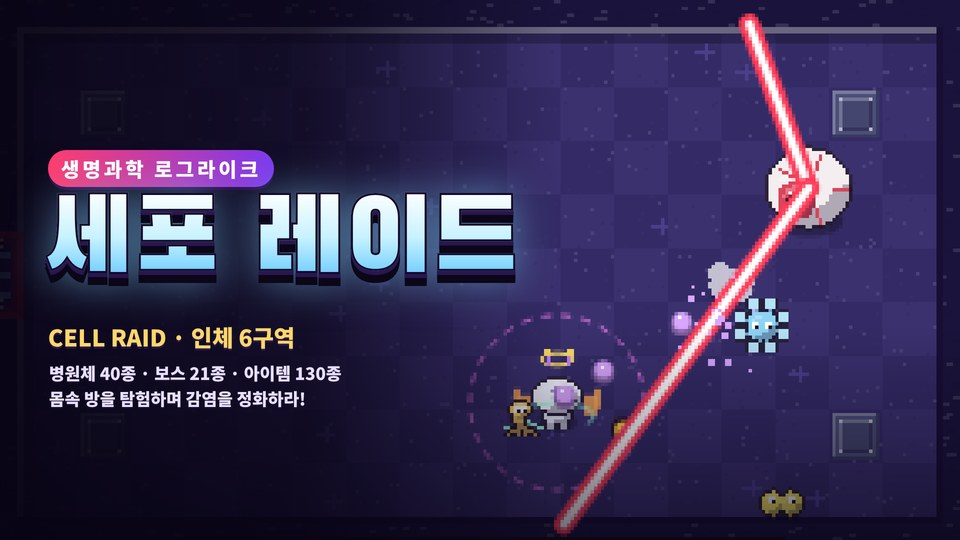
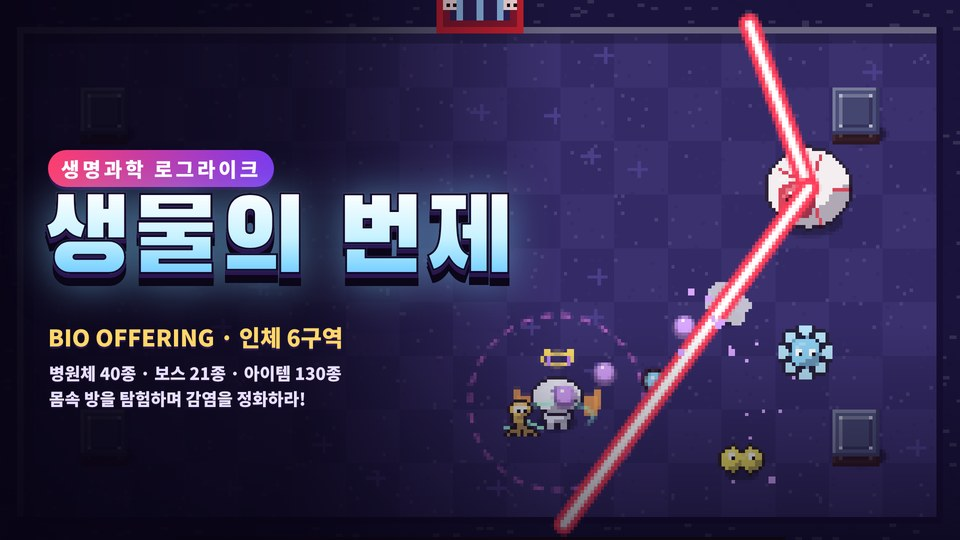
생물의 번제(구 세포 레이드): 이름 변경, 돌진 0.7배, 부서지는 장애물, 효소 결정
- 이름: 생물의 번제 (BIO OFFERING) — 게임 화면·허브·README·썸네일 (저장·랭킹은 그대로 이어짐)
- 돌진하는 병원체와 보스 돌진 패턴 속도 0.7배
- 눈물로 부서지는 장애물: 노폐물 덩어리(3번), 염증 불씨(닿으면 데임·3번 맞으면 꺼짐), 고름 주머니(터지며 연쇄 폭발)
  · 확률적으로 코인·폭탄·하트가 떨어짐, 폭발·초음파 파쇄기로도 부서짐
- 효소 결정: 폭탄으로만 깨지는 청록·보라 빛 구조물, 깨면 아이템 또는 물건 여러 개
- 가까이 가면 장애물 이름표(조심할 점) 표시

Claude-Session: https://claude.ai/code/session_01UFhV39Q5HiHHCjx3qBq9Aw

diff --git a/games/cell-raid/game.js b/games/cell-raid/game.js
@@ -1,4 +1,4 @@
-// 세포 레이드 — 게임 본체: 플레이어 · 탄도 · 병원체 AI · 보스 패턴 · 아이템 효과 · 방 진행 · 그리기
+// 생물의 번제 — 게임 본체: 플레이어 · 탄도 · 병원체 AI · 보스 패턴 · 아이템 효과 · 방 진행 · 그리기
 (function () {
   'use strict';
   const CR = window.CR, AU = CR.audio, IN = CR.input;
@@ -18,7 +18,7 @@
   function solid(tx, ty, mode) {
     const v = CR.tileAt(G.room, tx, ty);
     if (v === 1) { if ((mode === 'player' || mode === 'pfly') && tx >= 0 && ty >= 0 && tx < COLS && ty < ROWS) { const d = doorAt(tx, ty); if (d && doorOpen(G.room, d)) return false; } return true; }
-    if (v === 2 || v === 3) return !(mode === 'fly' || mode === 'ghost' || mode === 'spectral' || mode === 'pfly');
+    if (v === 2 || v === 3 || v === 5 || v === 6 || v === 8 || v === 9) return !(mode === 'fly' || mode === 'ghost' || mode === 'spectral' || mode === 'pfly');
     return false;
   }
   function blocked(x, y, r, mode) {
@@ -295,7 +295,7 @@
         if (e.state === 'dash') { const h = moveEnt(e, e.vx * dt, e.vy * dt, mode); if (h || e.st <= 0) { e.state = 'rest'; e.st = 0.7; } e.st -= dt; }
         else if (e.state === 'rest') { e.st -= dt; if (e.st <= 0) e.state = 'idle'; }
         else { e.dir += rand(-1, 1) * dt; if (moveEnt(e, Math.cos(e.dir) * sp * 0.5 * dt, Math.sin(e.dir) * sp * 0.5 * dt, mode)) e.dir += 2;
-          const ax = Math.abs(P.x - e.x) < 10, ay = Math.abs(P.y - e.y) < 10, f = (d.fast ? 260 : 190) * slow;
+          const ax = Math.abs(P.x - e.x) < 10, ay = Math.abs(P.y - e.y) < 10, f = (d.fast ? 182 : 133) * slow;
           if ((ax || ay || dd < 50) && e.t > 0.8) { e.state = 'dash'; e.st = 1.4; if (dd < 50) { e.vx = Math.cos(a) * f; e.vy = Math.sin(a) * f; } else if (ax) { e.vx = 0; e.vy = Math.sign(P.y - e.y) * f; } else { e.vy = 0; e.vx = Math.sign(P.x - e.x) * f; } } }
         break; }
       case 'burrow': {
@@ -398,7 +398,7 @@
     aim: { u(b) { const n = +b.c.a[0] || 3, k = Math.floor(b.c.t / 0.35); if (k > b.c.k) { b.c.k = k; const A = ang(b, G.P); for (let i = 0; i < n; i++) eShot(b.x, b.y, A + (i - (n - 1) / 2) * 0.2, 95); AU.sfx('eshot'); } return b.c.t > 1.1; } },
     ring: { u(b) { const n = +b.c.a[0] || 10, k = Math.floor(b.c.t / 0.5); if (k > b.c.k && k < 3) { b.c.k = k; ring(b.x, b.y, n, 78, k * Math.PI / n); if (b.def.segs) b.trail.forEach((p, i) => { if (i % 16 === 8) { eShot(p.x, p.y, ang(p, G.P), 80); } }); } return b.c.t > 1.2; } },
     spiral: { u(b) { b.c.e = (b.c.e || 0) + 1; const arms = b.phase ? 3 : 2; if (b.c.e % 5 === 0) for (let i = 0; i < arms; i++) eShot(b.x, b.y, b.c.t * 2.6 + i * TAU / arms, 85, { col: '#ff8ad0' }); if (b.c.e % 15 === 0) AU.sfx('eshot'); return b.c.t > 2.6; } },
-    charge: { s(b) { b.c.n = b.phase ? 2 : 1; b.c.w = 0.5; }, u(b, dt) { if (b.c.w > 0) { b.c.w -= dt; b.flash = 0.05; if (b.c.w <= 0) { const A = ang(b, G.P); b.c.vx = Math.cos(A) * 230; b.c.vy = Math.sin(A) * 230; } return false; } const h = moveEnt(b, b.c.vx * dt, b.c.vy * dt, 'walk'); if (h) { ring(b.x, b.y, 8, 70); G.shake = 5; AU.sfx('boom'); b.c.n--; if (b.c.n <= 0) return true; b.c.w = 0.4; } return b.c.t > 4; } },
+    charge: { s(b) { b.c.n = b.phase ? 2 : 1; b.c.w = 0.5; }, u(b, dt) { if (b.c.w > 0) { b.c.w -= dt; b.flash = 0.05; if (b.c.w <= 0) { const A = ang(b, G.P); b.c.vx = Math.cos(A) * 161; b.c.vy = Math.sin(A) * 161; } return false; } const h = moveEnt(b, b.c.vx * dt, b.c.vy * dt, 'walk'); if (h) { ring(b.x, b.y, 8, 70); G.shake = 5; AU.sfx('boom'); b.c.n--; if (b.c.n <= 0) return true; b.c.w = 0.4; } return b.c.t > 4; } },
     summon: { s(b) { const id = b.c.a[0], n = +b.c.a[1] || 1, alive = G.room.ents.filter(e => !e.boss && !e.dead && !e.ally).length; for (let i = 0; i < n && alive + i < 7; i++) { const e = mkEnemy(CR.ALL[id], b.x + rand(-20, 20), b.y + rand(-14, 20)); G.room.ents.push(e); burstFx(e.x, e.y, e.def.col, 8); } }, u(b) { return b.c.t > 0.6; } },
     teleport: { u(b) { const t = b.c.t; if (t < 0.4) { b.fade = 1 - t / 0.4; return false; } if (!b.c.m) { b.c.m = 1; const p = freeSpot(80); b.x = p.x; b.y = p.y; } if (t < 0.7) { b.fade = (t - 0.4) / 0.3; return false; } b.fade = 1; if (!b.c.s) { b.c.s = 1; const A = ang(b, G.P); for (let i = -1; i <= 1; i++) eShot(b.x, b.y, A + i * 0.25, 100); AU.sfx('eshot'); } return t > 0.9; } },
     laser8: { s(b) { const n = b.phase || b.def.phases3 ? 8 : 4, off = ang(b, G.P); for (let i = 0; i < n; i++) laser(b.x, b.y, off + i * TAU / n, { follow: b, w: 6 }); AU.sfx('charge'); }, u(b) { return b.c.t > 1.6; } },
@@ -494,6 +494,7 @@
       const nx = b.x + b.vx * dt + ox, ny = b.y + b.vy * dt + oy, step = Math.hypot(b.vx * dt, b.vy * dt);
       const tx = Math.floor(nx / T), ty = Math.floor(ny / T), tile = CR.tileAt(G.room, tx, ty);
       const spectral = has('spectral') || has('wave');
+      if (CR.isBreak(tile) && !spectral) { CR.hitProp(G.room, tx, ty, b.dmg, false); bulletEnd(b, i); continue; }
       if (tile === 1 || ((tile === 2 || tile === 3) && !spectral)) {
         if ((tile === 2) && toolFx('rockBreak')) { G.room.tiles[ty * COLS + tx] = 0; G.room.bgDirty = true; burstFx(tx * T + 8, ty * T + 8, CR.STAGES[G.stage - 1].rock, 10); AU.sfx('hit'); maybeRockDrop(tx, ty); }
         if (b.bounce > 0 && tile !== 2) { b.bounce--; if (CR.tileAt(G.room, Math.floor(nx / T), Math.floor(b.y / T)) !== 0) b.vx = -b.vx; else b.vy = -b.vy; continue; }
@@ -567,7 +568,7 @@
         if (b.homing && b.t < b.homing) { const want = ang(b, P), cur = Math.atan2(b.vy, b.vx); let dA = ((want - cur + Math.PI * 3) % TAU) - Math.PI; const na = cur + clamp(dA, -2.2 * dt, 2.2 * dt), sp = Math.hypot(b.vx, b.vy); b.vx = Math.cos(na) * sp; b.vy = Math.sin(na) * sp; }
         const m = G.slowAll > 0 ? 0.4 : 1; b.x += b.vx * dt * m; b.y += b.vy * dt * m;
         const tile = CR.tileAt(G.room, Math.floor(b.x / T), Math.floor(b.y / T));
-        if (tile === 1 || tile === 2 || tile === 3 || b.t > b.life) { if (b.web) creep(b.x, b.y, 10, 5, 'web'); G.eb.splice(i, 1); G.fx.push({ x: b.x, y: b.y, vx: 0, vy: 0, t: 0, life: 0.15, col: b.col, s: 2, pop: 1 }); continue; }
+        if (tile === 1 || tile === 2 || tile === 3 || CR.isBreak(tile) || b.t > b.life) { if (b.web) creep(b.x, b.y, 10, 5, 'web'); G.eb.splice(i, 1); G.fx.push({ x: b.x, y: b.y, vx: 0, vy: 0, t: 0, life: 0.15, col: b.col, s: 2, pop: 1 }); continue; }
       }
       // 수호 동료가 막아 줌
       let blockedByFam = false; for (const f of G.fams) if ((f.kind === 'guard') && Math.hypot(f.x - b.x, f.y - b.y) < 8) { blockedByFam = true; break; }
@@ -613,7 +614,9 @@
     const t0x = Math.floor((x - R) / T), t1x = Math.floor((x + R) / T), t0y = Math.floor((y - R) / T), t1y = Math.floor((y + R) / T);
     for (let ty = t0y; ty <= t1y; ty++) for (let tx = t0x; tx <= t1x; tx++) {
       if (Math.hypot(tx * T + 8 - x, ty * T + 8 - y) > R + 6) continue;
-      if (CR.tileAt(G.room, tx, ty) === 2) { G.room.tiles[ty * COLS + tx] = 0; G.room.bgDirty = true; burstFx(tx * T + 8, ty * T + 8, CR.STAGES[G.stage - 1].rock, 8); maybeRockDrop(tx, ty); }
+      const tv = CR.tileAt(G.room, tx, ty);
+      if (tv === 2) { G.room.tiles[ty * COLS + tx] = 0; G.room.bgDirty = true; burstFx(tx * T + 8, ty * T + 8, CR.STAGES[G.stage - 1].rock, 8); maybeRockDrop(tx, ty); }
+      else if (CR.isBreak(tv)) CR.hitProp(G.room, tx, ty, 999, true);
     }
     for (const d in G.room.doors) { const dr = G.room.doors[d]; if (dr.hidden) { const [tx, ty] = CR.DOOR_TILE[d]; if (Math.hypot(tx * T + 8 - x, ty * T + 8 - y) < R + 14) revealSecret(G.room, d); } }
   }
@@ -698,7 +701,7 @@
     A06() { dupPickups(); },
     A07() { let n = 0; G.room.items.forEach(p => { if (!p.taken && p.id && !p.pk) { const k = CR.ALL[p.id].kind; p.id = k === 'active' ? (takeFrom('active') || p.id) : rollItem(G.room.type === 'lab' ? 'lab' : 'treasure'); n++; burstFx(p.x, p.y, '#d68cff', 12); } }); if (!n) toast('바꿀 아이템이 없어요', '받침대 위 아이템이 있는 방에서 쓰세요', '#ff9e9e'); AU.sfx('power'); },
     A08() { G.creeps = G.creeps.filter(c => !['acid', 'cloud', 'web'].includes(c.kind)); heal(2); AU.sfx('heal'); },
-    A09() { for (let i = 0; i < G.room.tiles.length; i++) if (G.room.tiles[i] === 2) G.room.tiles[i] = 0; G.room.bgDirty = true; for (const d in G.room.doors) revealSecret(G.room, d); G.shake = 6; AU.sfx('boom'); },
+    A09() { for (let i = 0; i < G.room.tiles.length; i++) { if (G.room.tiles[i] === 2) G.room.tiles[i] = 0; else if (CR.isBreak(G.room.tiles[i])) CR.hitProp(G.room, i % COLS, Math.floor(i / COLS), 999, true); } G.room.bgDirty = true; for (const d in G.room.doors) revealSecret(G.room, d); G.shake = 6; AU.sfx('boom'); },
     A10() { G.P.room.vaccine = 5; AU.sfx('shield'); },
     A11() { for (let i = 0; i < 4; i++) G.room.ents.push(mkEnemy(CR.MINIS.ally, G.P.x + rand(-12, 12), G.P.y + rand(-12, 12), { ally: 1, life: 14 })); AU.sfx('power'); },
     A12() { revealMap(); for (const r of G.floor.rooms.values()) if (r.type === 'secret') r.revealed = true; G.room.weak = 1; AU.sfx('power'); },
@@ -790,6 +793,7 @@
     const P = G.P; let best = null, bd = 1e9;
     for (const it of G.room.items) { if (it.taken) continue; const d = Math.hypot(P.x - it.x, P.y - it.y); if (d < 38 && d < bd) { bd = d; best = { x: it.x, y: it.y - 14, id: it.id, pk: it.pk, price: it.price, hpCost: it.hpCost }; } }
     for (const p of G.room.pickups) { if (!['tool', 'chart', 'hormone'].includes(p.kind)) continue; const d = Math.hypot(P.x - p.x, P.y - p.y); if (d < 30 && d < bd) { bd = d; best = { x: p.x, y: p.y - 10, id: p.id, floor: 1 }; } }
+    if (!best) best = CR.propPeek(G.room, P);
     return best;
   }
   function collect(p) {
@@ -836,6 +840,7 @@
     if (has('giant')) { const tx = Math.floor((P.x + Math.sign(P.vx) * (P.r + 2)) / T), ty = Math.floor(P.y / T); if (CR.tileAt(G.room, tx, ty) === 2 && Math.abs(P.vx) > 20) { G.room.tiles[ty * COLS + tx] = 0; G.room.bgDirty = true; burstFx(tx * T + 8, ty * T + 8, CR.STAGES[G.stage - 1].rock, 8); AU.sfx('hit'); } }
     if (Math.hypot(P.vx, P.vy) > 15) { P.walkT += dt; if (Math.abs(P.vx) > Math.abs(P.vy)) P.dir = P.vx > 0 ? 'right' : 'left'; else P.dir = P.vy > 0 ? 'down' : 'up';
       if (has('trailCreep')) { P.trT = (P.trT || 0) - dt; if (P.trT <= 0) { P.trT = 0.25; creep(P.x, P.y + 3, 7, 2.2, 'pacid', { col: '#e6ff8a' }); } } }
+    if (!has('flight') && !has('creepImmune') && CR.fireTouch(G.room, P)) hurtPlayer(1, 'fire');
     // 가시
     if (!has('flight') && !has('creepImmune') && CR.tileAt(G.room, Math.floor(P.x / T), Math.floor(P.y / T)) === 4) hurtPlayer(1, 'spike');
     // 문 통과
@@ -949,6 +954,7 @@
     c.drawImage(CR.roomBg(G.room, st), ox, oy);
     c.save(); c.translate(ox, oy);
     for (const d in G.room.doors) CR.drawDoor(c, G.room, d, st, G.room.cleared, t);
+    CR.drawProps(c, G.room, st, t);
     // 장판
     for (const k of G.creeps) {
       const fade = Math.min(1, (k.life - k.t) / 0.6) * (k.delay && k.t < k.delay ? 0.35 : 1);

diff --git a/games/cell-raid/props.js b/games/cell-raid/props.js
@@ -1,0 +1,125 @@
+// 생물의 번제 — 부서지는 장애물: 노폐물 덩어리 · 염증 불씨 · 고름 주머니 · 효소 결정(폭탄 전용)
+(function () {
+  'use strict';
+  const CR = window.CR, T = CR.T, COLS = CR.COLS, ROWS = CR.ROWS, sh = CR.shade;
+  // 타일 번호: 5 노폐물 덩어리 · 6 염증 불씨 · 8 고름 주머니 · 9 효소 결정
+  const DEF = {
+    5: { name: '노폐물 덩어리', hp: 3, desc: '눈물로 3번 맞히면 부서져요. 가끔 코인·폭탄·하트가 나와요' },
+    6: { name: '염증 불씨', hp: 3, desc: '닿으면 데요! 눈물로 3번 맞히면 꺼지고, 가끔 코인·하트가 나와요' },
+    8: { name: '고름 주머니', hp: 2, desc: '맞히면 터져요 — 주변을 폭발시키니 떨어져서 쏘세요' },
+    9: { name: '효소 결정', hp: 1, bombOnly: true, desc: '폭탄으로만 깨져요. 깨면 아이템이나 물건 여러 개가 나와요' },
+  };
+  CR.PROPS = DEF;
+  CR.isBreak = v => v === 5 || v === 6 || v === 8 || v === 9;
+
+  /* ───────── 배치: 일반 방에 확률적으로 (가운데 십자 통로·문 앞은 비움) ───────── */
+  CR.placeProps = function (room, stage, rnd) {
+    if (room.type !== 'normal') return;
+    const t = room.tiles, free = [];
+    for (let y = 2; y <= ROWS - 3; y++) for (let x = 2; x <= COLS - 3; x++) { if (x === 9 || y === 5) continue; if (t[y * COLS + x] === 0) free.push([x, y]); }
+    const take = () => free.length ? free.splice(Math.floor(rnd() * free.length), 1)[0] : null;
+    const put = (v, n) => { for (let i = 0; i < n; i++) { const c = take(); if (c) t[c[1] * COLS + c[0]] = v; } };
+    if (rnd() < (stage === 3 ? 0.6 : 0.38)) put(5, 1 + Math.floor(rnd() * 3));
+    if (rnd() < 0.28) put(6, 1 + Math.floor(rnd() * 2));
+    if (stage >= 2 && rnd() < 0.3) put(8, 1 + Math.floor(rnd() * 2));
+    if (rnd() < 0.16) {   // 효소 결정: 바위 하나를 바꾸거나 빈칸에
+      const rocks = []; for (let i = 0; i < t.length; i++) if (t[i] === 2) rocks.push(i);
+      if (rocks.length && rnd() < 0.6) t[rocks[Math.floor(rnd() * rocks.length)]] = 9; else put(9, 1);
+    }
+    room.thp = {};
+  };
+
+  /* ───────── 그림 ───────── */
+  function poopSpr(stage, hp) {
+    const base = stage === 3 ? '#6e5a24' : '#7a4a26';
+    return CR.spr('poop' + stage + hp, 16, 16, g => {
+      const s = [0.55, 0.78, 1][hp - 1] || 1;
+      g.blob(8, 12, 6.5 * s, 3.2 * s, sh(base, -0.12));
+      if (hp >= 2) g.blob(8, 9.5, 5 * s, 2.8 * s, base);
+      if (hp >= 3) { g.blob(8.3, 7, 3.6, 2.4, sh(base, 0.08)); g.blob(8.8, 4.8, 1.8, 1.6, sh(base, 0.15)); }
+      g.set(6, hp >= 3 ? 6 : 9, sh(base, 0.5)); g.set(5, 11, sh(base, 0.35));
+      if (hp <= 2) { g.set(5, 12, '#5a3a1c'); g.set(11, 11, '#5a3a1c'); }
+    });
+  }
+  function logsSpr(stage, lit) {
+    return CR.spr('logs' + stage + (lit ? 1 : 0), 16, 16, g => {
+      if (!lit) { g.blob(8, 12, 6, 2.8, '#3a3232'); g.blob(7, 11, 3, 1.6, '#4e4444'); g.set(9, 11, '#ff7a3a'); return; }
+      g.line(2, 14, 13, 10, '#6b3a1e', 3); g.line(3, 10, 14, 14, '#7c4626', 3);
+      g.line(3, 13, 12, 10, '#8c5a32', 1); g.line(4, 10, 13, 13, '#9a6a3a', 1);
+      g.set(2, 14, '#c49a6c'); g.set(14, 14, '#c49a6c');
+    });
+  }
+  function sacSpr(stage, hp) {
+    return CR.spr('sac' + stage + hp, 16, 16, g => {
+      g.blob(8, 9, 6.2, 5.6, '#cfb44e'); g.blob(8, 8, 4.2, 3.6, '#e2cc6a');
+      for (const [a, b, c, d] of [[3, 9, 6, 6], [13, 8, 10, 5], [5, 13, 8, 10], [11, 13, 9, 10]]) g.line(a, b, c, d, '#a8742e');
+      g.set(6, 6, '#fff3b0'); g.set(7, 5, '#fff3b0');
+      if (hp < 2) { g.line(7, 4, 10, 9, '#6a3a12'); g.line(10, 9, 8, 12, '#6a3a12'); g.set(9, 10, '#f0e070'); }
+      g.rect(7, 2, 3, 2, '#a8742e', true);
+    });
+  }
+  function crystalSpr(stage) {
+    return CR.spr('xtal' + stage, 16, 16, g => {
+      const prism = (x, y, w, h, c) => { for (let j = 0; j < h; j++) { const ww = j < 2 ? j + 1 : w; for (let i = -ww; i <= ww; i++) g.set(x + i * 0.7, y + j, i < 0 ? sh(c, 0.35) : i === 0 ? sh(c, 0.6) : c); } };
+      g.blob(8, 13, 6.5, 2.4, '#2a1a4a');
+      prism(5, 4, 2, 9, '#7a5cff'); prism(11, 5, 2, 8, '#b07cff'); prism(8, 1, 3, 12, '#3ad8ff');
+      g.set(8, 2, '#ffffff'); g.set(7, 4, '#ffffff'); g.set(5, 5, '#e8dcff');
+    });
+  }
+
+  /* ───────── 그리기 (불꽃·반짝임은 매 프레임) ───────── */
+  CR.drawProps = function (c, room, st, t) {
+    const tl = room.tiles, thp = room.thp || (room.thp = {});
+    if (room.ash) for (const a of room.ash) { c.fillStyle = 'rgba(30,24,24,0.55)'; c.beginPath(); c.ellipse(a.x, a.y + 4, 7, 3, 0, 0, 7); c.fill(); c.drawImage(logsSpr(st, false), a.x - 8, a.y - 8); }
+    for (let y = 1; y < ROWS - 1; y++) for (let x = 1; x < COLS - 1; x++) {
+      const i = y * COLS + x, v = tl[i]; if (!CR.isBreak(v)) continue;
+      const px = x * T, py = y * T, hp = thp[i] != null ? thp[i] : DEF[v].hp;
+      c.fillStyle = 'rgba(15,5,8,0.45)'; c.beginPath(); c.ellipse(px + 8.5, py + 14, 7, 2.8, 0, 0, 7); c.fill();
+      if (v === 5) c.drawImage(poopSpr(st, hp), px, py);
+      else if (v === 8) { const s = 1 + Math.sin(t * 5 + x) * 0.04; c.save(); c.translate(px + 8, py + 9); c.scale(s, 1 / s); c.drawImage(sacSpr(st, hp), -8, -9); c.restore(); }
+      else if (v === 9) {
+        const g = 0.35 + Math.sin(t * 3 + x * 2) * 0.15; c.fillStyle = `rgba(90,220,255,${g * 0.5})`; c.beginPath(); c.arc(px + 8, py + 8, 10, 0, 7); c.fill();
+        c.drawImage(crystalSpr(st), px, py);
+        if (Math.floor(t * 3 + x + y) % 4 === 0) { c.fillStyle = '#ffffff'; const sx = px + 4 + ((x * 5 + Math.floor(t * 3)) % 8), sy = py + 2 + ((y * 3 + Math.floor(t * 3)) % 8); c.fillRect(sx, sy - 1, 1, 3); c.fillRect(sx - 1, sy, 3, 1); }
+      }
+      else if (v === 6) {
+        c.drawImage(logsSpr(st, true), px, py);
+        const k = hp / 3, fl = (dx, w, h, col, ph) => { const hh = h * k * (0.85 + Math.sin(t * 14 + ph + x) * 0.15); c.fillStyle = col; c.beginPath(); c.moveTo(px + 8 + dx - w, py + 12); c.quadraticCurveTo(px + 8 + dx - w * 0.6, py + 12 - hh * 0.6, px + 8 + dx + Math.sin(t * 9 + ph) * 1.5, py + 12 - hh); c.quadraticCurveTo(px + 8 + dx + w * 0.6, py + 12 - hh * 0.6, px + 8 + dx + w, py + 12); c.fill(); };
+        c.globalCompositeOperation = 'lighter'; c.fillStyle = 'rgba(255,140,40,0.18)'; c.beginPath(); c.arc(px + 8, py + 8, 15, 0, 7); c.fill(); c.globalCompositeOperation = 'source-over';
+        fl(0, 5, 14, '#e8481c', 0); fl(-1, 3.6, 10, '#ff8a2a', 1.3); fl(0.5, 2.2, 6.5, '#ffd34d', 2.1); fl(0, 1, 3, '#fff6c8', 3);
+      }
+    }
+  };
+
+  /* ───────── 맞음 · 부서짐 · 보상 ───────── */
+  function drop(kind, x, y) { const p = CR.dropPickup(kind, x, y); p.vx = (Math.random() - 0.5) * 60; p.vy = (Math.random() - 0.5) * 60; }
+  CR.hitProp = function (room, tx, ty, dmg, byBomb) {
+    const i = ty * COLS + tx, v = room.tiles[i]; if (!CR.isBreak(v)) return false;
+    const d = DEF[v], AU = CR.audio, x = tx * T + 8, y = ty * T + 8;
+    if (d.bombOnly && !byBomb) { AU.sfx('tink'); return true; }
+    room.thp = room.thp || {}; const hp = (room.thp[i] != null ? room.thp[i] : d.hp) - (byBomb ? 99 : 1);
+    if (hp > 0) { room.thp[i] = hp; AU.sfx('hit'); CR.burstFx(x, y, v === 5 ? '#7a4a26' : v === 6 ? '#ff8a2a' : '#e2cc6a', 4); return true; }
+    room.tiles[i] = 0; delete room.thp[i]; room.bgDirty = true;
+    const r = Math.random();
+    if (v === 5) { CR.burstFx(x, y, '#7a4a26', 14); AU.sfx('edie'); if (r < 0.22) drop('coin', x, y); else if (r < 0.28) drop('half', x, y); else if (r < 0.32) drop('bomb', x, y); }
+    else if (v === 6) { CR.burstFx(x, y, '#9a9090', 12); AU.sfx('freeze'); (room.ash = room.ash || []).push({ x, y }); if (r < 0.18) drop('coin', x, y); else if (r < 0.26) drop('half', x, y); else if (r < 0.29) drop('bomb', x, y); }
+    else if (v === 8) { CR.burstFx(x, y, '#e2cc6a', 18); CR.creep(x, y, 18, 4, 'acid'); CR.explosion(x, y, 30, 40, {}); if (r < 0.1) drop('coin', x, y); }
+    else if (v === 9) { CR.burstFx(x, y, '#5ae8ff', 26); AU.sfx('item');
+      if (r < 0.3) CR.dropPedestal(CR.rollItem('secret'), x, y);
+      else { const n = 2 + Math.floor(Math.random() * 2); for (let k = 0; k < n; k++) drop(['coin', 'coin', 'bomb', 'key', 'heart'][Math.floor(Math.random() * 5)], x, y); }
+      CR.toast('효소 결정을 깼어요!', '안에 들어 있던 것이 쏟아져 나왔어요', '#5ae8ff'); }
+    return true;
+  };
+  // 염증 불씨에 닿으면 데임 (열충격 단백질·비행이면 무시)
+  CR.fireTouch = function (room, P) {
+    const tx0 = Math.floor((P.x - 12) / T), tx1 = Math.floor((P.x + 12) / T), ty0 = Math.floor((P.y - 12) / T), ty1 = Math.floor((P.y + 12) / T);
+    for (let ty = ty0; ty <= ty1; ty++) for (let tx = tx0; tx <= tx1; tx++) if (CR.tileAt(room, tx, ty) === 6 && Math.hypot(P.x - (tx * T + 8), P.y - (ty * T + 8)) < 8 + P.r) return true;
+    return false;
+  };
+  // 가까이 가면 이름표 (효소 결정·고름 주머니처럼 조심할 것)
+  CR.propPeek = function (room, P) {
+    let best = null, bd = 34;
+    for (let y = 1; y < ROWS - 1; y++) for (let x = 1; x < COLS - 1; x++) { const v = room.tiles[y * COLS + x]; if (v !== 9 && v !== 8 && v !== 6) continue; const d = Math.hypot(P.x - (x * T + 8), P.y - (y * T + 8)); if (d < bd) { bd = d; best = { x: x * T + 8, y: y * T - 4, custom: { name: DEF[v].name, desc: DEF[v].desc, tag: v === 9 ? '폭탄 전용 구조물' : '부서지는 장애물' } }; } }
+    return best;
+  };
+})();

diff --git a/games/cell-raid/ui.js b/games/cell-raid/ui.js
@@ -1,4 +1,4 @@
-// 세포 레이드 — 화면 UI: 화면 맞춤 · 메뉴 · 알림 · 보스 등장 · 결과 · 도감 · 터치 버튼 · 기록
+// 생물의 번제 — 화면 UI: 화면 맞춤 · 메뉴 · 알림 · 보스 등장 · 결과 · 도감 · 터치 버튼 · 기록
 (function () {
   'use strict';
   const CR = window.CR, G = CR.G, AU = CR.audio, IN = CR.input, W = CR.W, H = CR.H;
@@ -135,10 +135,11 @@
   function updatePeek() {
     const pk = G.mode === 'play' && !G.intro && G.peek;
     if (!pk) { if (peekKey) { peekEl.classList.remove('on'); peekKey = ''; } return; }
-    const k = (pk.id || pk.pk) + '|' + (pk.price || '') + '|' + (pk.hpCost || '');
+    const k = (pk.id || pk.pk || (pk.custom && pk.custom.name)) + '|' + (pk.price || '') + '|' + (pk.hpCost || '');
     if (k !== peekKey) {
       peekKey = k; let name, desc, tag = '', cls = '';
-      if (pk.pk) { [name, desc] = PKN[pk.pk] || [pk.pk, '']; }
+      if (pk.custom) { name = pk.custom.name; desc = pk.custom.desc; tag = pk.custom.tag; }
+      else if (pk.pk) { [name, desc] = PKN[pk.pk] || [pk.pk, '']; }
       else { const x = CR.ALL[pk.id]; name = x.name; desc = x.desc;
         if (x.kind === 'passive') { tag = x.tier === 4 ? '사기템' : '패시브 · 등급 ' + x.tier; cls = x.tier === 4 ? 'op' : ''; }
         else if (x.kind === 'active') tag = '액티브 · 충전 ' + x.charge + '칸 (Space)';
@@ -146,10 +147,10 @@
         else if (x.kind === 'chart') tag = '진단서 (Q 사용 · F 버리기)';
         else if (x.kind === 'hormone') { tag = (x.good ? '호르몬' : '호르몬 · 나쁜 효과') + ' (Q 사용 · F 버리기)'; cls = x.good ? '' : 'bad'; }
         peekEl.querySelector('b').style.color = x.tier === 4 ? '#ffd75e' : '#fff'; }
-      if (pk.pk) peekEl.querySelector('b').style.color = '#fff';
+      if (pk.pk || pk.custom) peekEl.querySelector('b').style.color = pk.custom ? '#9fe8ff' : '#fff';
       peekEl.querySelector('b').textContent = name; const ti = peekEl.querySelector('i'); ti.textContent = tag; ti.className = cls; ti.style.display = tag ? '' : 'none';
       peekEl.querySelector('span').textContent = desc;
-      peekEl.querySelector('em').textContent = pk.price ? '가격 ' + pk.price + ' ATP 코인 — 닿으면 구매' : pk.hpCost ? '최대 체력 1칸을 내고 가져가요 — 닿으면 거래' : '닿으면 먹어요 · 그냥 지나가도 돼요';
+      peekEl.querySelector('em').textContent = pk.custom ? '' : pk.price ? '가격 ' + pk.price + ' ATP 코인 — 닿으면 구매' : pk.hpCost ? '최대 체력 1칸을 내고 가져가요 — 닿으면 거래' : '닿으면 먹어요 · 그냥 지나가도 돼요';
       peekEl.classList.add('on');
     }
     const s = parseFloat(getComputedStyle(document.documentElement).getPropertyValue('--s')) || 2;

diff --git a/sw.js b/sw.js
@@ -1,11 +1,11 @@
 /* BIO ARCADE 서비스 워커: 처음 접속할 때 전체 게임을 저장해 두고, 이후에는 오프라인에서도 실행. */
-const VERSION = 'biogame-hub-v87-raidmap';
+const VERSION = 'biogame-hub-v88-offering';
 const FONT_CACHE = 'bio-arcade-fonts';
 const CORE = [
   './', './index.html', './manifest.webmanifest',
   './games/bio-beat.html', './games/bio-kart.html',
   './games/vessel-canyon.html', './games/biotro.html',
-  './games/cell-brawl.html', './games/only-up.html', './games/bio-strike.html', './ilog.js', './goal.js', './icons.js', './rank.js', './net.js', './lyric-audio.js', './games/cell-frontier.html', './games/bio-tower.html', './games/codon-glass.html', './games/bio-pyramid.html', './games/bio-pyramid/tw.css', './games/cell-expedition.html', './games/cell-expedition/tw.css', './games/cell-raid.html', './games/cell-raid/engine.js', './games/cell-raid/data.js', './games/cell-raid/world.js', './games/cell-raid/art.js', './games/cell-raid/game.js', './games/cell-raid/ui.js', './games/codon-glass/tw.css', './vendor/matter.min.js', './games/helix.html', './games/helix/js/audio.js', './games/helix/js/data.js', './games/helix/js/engine.js', './games/helix/js/world.js', './games/helix/js/game.js', './games/helix/js/weapons.js', './games/helix/js/foes2.js', './games/helix/js/run.js', './games/helix/js/ui.js',
+  './games/cell-brawl.html', './games/only-up.html', './games/bio-strike.html', './ilog.js', './goal.js', './icons.js', './rank.js', './net.js', './lyric-audio.js', './games/cell-frontier.html', './games/bio-tower.html', './games/codon-glass.html', './games/bio-pyramid.html', './games/bio-pyramid/tw.css', './games/cell-expedition.html', './games/cell-expedition/tw.css', './games/cell-raid.html', './games/cell-raid/engine.js', './games/cell-raid/data.js', './games/cell-raid/world.js', './games/cell-raid/art.js', './games/cell-raid/props.js', './games/cell-raid/game.js', './games/cell-raid/ui.js', './games/codon-glass/tw.css', './vendor/matter.min.js', './games/helix.html', './games/helix/js/audio.js', './games/helix/js/data.js', './games/helix/js/engine.js', './games/helix/js/world.js', './games/helix/js/game.js', './games/helix/js/weapons.js', './games/helix/js/foes2.js', './games/helix/js/run.js', './games/helix/js/ui.js',
   './assets/bio-beat.jpg', './assets/bio-kart.jpg',
   './assets/vessel-canyon.jpg', './assets/biotro.jpg',
   './assets/cell-brawl.jpg', './assets/only-up.jpg', './assets/bio-strike.jpg', './assets/helix.jpg', './assets/cell-frontier.jpg', './assets/bio-tower.jpg', './assets/codon-glass.jpg', './assets/bio-pyramid.jpg', './assets/cell-expedition.jpg', './assets/cell-raid.jpg', './icons/icon-online-192.png', './icons/icon-online-512.png', './icons/icon-lan-192.png', './icons/icon-wifi-192.png',

diff --git a/games/cell-raid.html b/games/cell-raid.html
@@ -4,7 +4,7 @@
 <meta charset="utf-8">
 <meta name="viewport" content="width=device-width,initial-scale=1,maximum-scale=1,user-scalable=no,viewport-fit=cover">
 <meta name="theme-color" content="#0b0714">
-<title>세포 레이드 · 인체 6구역</title>
+<title>생물의 번제 · 인체 6구역</title>
 <link rel="manifest" href="../manifest.webmanifest?v=2">
 <link rel="icon" type="image/png" sizes="32x32" href="../icons/favicon-v2-32.png">
 <link rel="apple-touch-icon" href="../icons/apple-touch-icon-v2.png">
@@ -147,8 +147,8 @@ body:not(.portrait) #tbCodex{top:calc(38% + 52px);right:calc(10px + env(safe-are
 </div>
 
 <div class="screen" id="title"><div class="card0">
-  <div class="logo">세포 레이드</div>
-  <div class="sub">CELL RAID · 인체 6구역</div>
+  <div class="logo">생물의 번제</div>
+  <div class="sub">BIO OFFERING · 인체 6구역</div>
   <div class="rec" id="titleRec"></div>
   <div class="btns">
     <button class="btn" id="btnStart" type="button">원정 시작</button>
@@ -211,6 +211,7 @@ body:not(.portrait) #tbCodex{top:calc(38% + 52px);right:calc(10px + env(safe-are
 <script src="cell-raid/data.js"></script>
 <script src="cell-raid/world.js"></script>
 <script src="cell-raid/art.js"></script>
+<script src="cell-raid/props.js"></script>
 <script src="cell-raid/game.js"></script>
 <script src="cell-raid/ui.js"></script>
 <script src="../goal.js"></script>

diff --git a/index.html b/index.html
@@ -357,7 +357,7 @@ footer{margin-top:28px;text-align:center;font-size:12.5px;color:var(--dim)}
     ['codon-glass','코돈 글래스','mRNA 코돈 번역 퍼즐','online casual','4','퍼즐 코돈 mRNA 번역 아미노산 리보솜 codon glass'],
     ['bio-pyramid','바이오 피라미드 타이쿤','양분을 모아 생명의 피라미드 쌓기 3D','casual','','타이쿤 방치 피라미드 펫 뽑기 양분 bio pyramid'],
     ['cell-expedition','세포 원정대 3D','면역 세포 요원 육성 원정 전투','casual','','면역 세포 요원 원정 전투 육성 뽑기 cell expedition'],
-    ['cell-raid','세포 레이드','인체 6구역 방 탐험 로그라이크 슈터','action','','세포 레이드 로그라이크 슈터 병원체 보스 인체 cell raid']
+    ['cell-raid','생물의 번제','인체 6구역 방 탐험 로그라이크 슈터','action','','생물의 번제 세포 레이드 로그라이크 슈터 병원체 보스 인체 cell raid']
   ];
   const ic=n=>window.BioIcon?BioIcon.svg(n):'';
   const get=k=>{try{const v=localStorage.getItem(k);return v?JSON.parse(v):null;}catch(e){return null;}};

diff --git a/games/cell-raid/world.js b/games/cell-raid/world.js
@@ -1,4 +1,4 @@
-// 세포 레이드 — 층 생성 · 방 배치 · 방 그리기 · 미니맵
+// 생물의 번제 — 층 생성 · 방 배치 · 방 그리기 · 미니맵
 (function () {
   'use strict';
   const CR = window.CR;
@@ -95,6 +95,7 @@
     } else if (room.type === 'boss' && stage >= 2) { sym(2, 2, 3); }
     else if (room.type === 'secret') { sym(2, 2, 2); sym(3, 2, 2); }
     room.tiles = t; room.bgDirty = true;
+    if (CR.placeProps) CR.placeProps(room, stage, rnd);
   };
   CR.tileAt = (room, tx, ty) => (tx < 0 || ty < 0 || tx >= COLS || ty >= ROWS) ? 1 : room.tiles[ty * COLS + tx];
 

diff --git a/games/cell-raid/art.js b/games/cell-raid/art.js
@@ -1,4 +1,4 @@
-// 세포 레이드 — 고해상 환경 그림 (독창 디자인): 세포 조직 바닥 · 피부층 벽 · 각질 장애물 · 모공 문 · 조명
+// 생물의 번제 — 고해상 환경 그림 (독창 디자인): 세포 조직 바닥 · 피부층 벽 · 각질 장애물 · 모공 문 · 조명
 (function () {
   'use strict';
   const CR = window.CR, T = CR.T, COLS = CR.COLS, ROWS = CR.ROWS, RW = CR.RW, RH = CR.RH;

diff --git a/games/cell-raid/data.js b/games/cell-raid/data.js
@@ -1,4 +1,4 @@
-// 세포 레이드 — 데이터: 구역 6 · 패시브 70 · 액티브 30 · 수술도구 20 · 진단서 10 · 호르몬 8 · 병원체 40 · 보스 21
+// 생물의 번제 — 데이터: 구역 6 · 패시브 70 · 액티브 30 · 수술도구 20 · 진단서 10 · 호르몬 8 · 병원체 40 · 보스 21
 (function () {
   'use strict';
   const CR = window.CR;

diff --git a/games/cell-raid/engine.js b/games/cell-raid/engine.js
@@ -1,4 +1,4 @@
-// 세포 레이드 — 엔진: 도트 그림 생성기 · 도트 글꼴 · 소리 합성 · 입력
+// 생물의 번제 — 엔진: 도트 그림 생성기 · 도트 글꼴 · 소리 합성 · 입력
 (function () {
   'use strict';
   const CR = window.CR = window.CR || {};

diff --git a/README.md b/README.md
@@ -18,7 +18,7 @@
 | 코돈 글래스 CODON GLASS | mRNA 번역 퍼즐 (모드 3 · 온라인 최대 4명 같은 판 경쟁) | `games/codon-glass.html` |
 | 바이오 피라미드 타이쿤 | 3D 생명과학 타이쿤 (펫 뽑기 · 온천 · 엔딩) | `games/bio-pyramid.html` |
 | 세포 원정대 3D | 면역 세포 요원 육성 원정 전투 | `games/cell-expedition.html` |
-| 세포 레이드 CELL RAID | 방 탐험 로그라이크 슈터 (6구역 · 병원체 40 · 보스 21 · 아이템 138) | `games/cell-raid.html` |
+| 생물의 번제 BIO OFFERING | 방 탐험 로그라이크 슈터 (6구역 · 병원체 40 · 보스 21 · 아이템 138) | `games/cell-raid.html` |
 
 ```
 index.html        메인 화면 (휴대폰은 목록형, 태블릿·PC는 바둑판형으로 자동 구성 · 분류/검색 · 이어하기 · 목표 달성)
